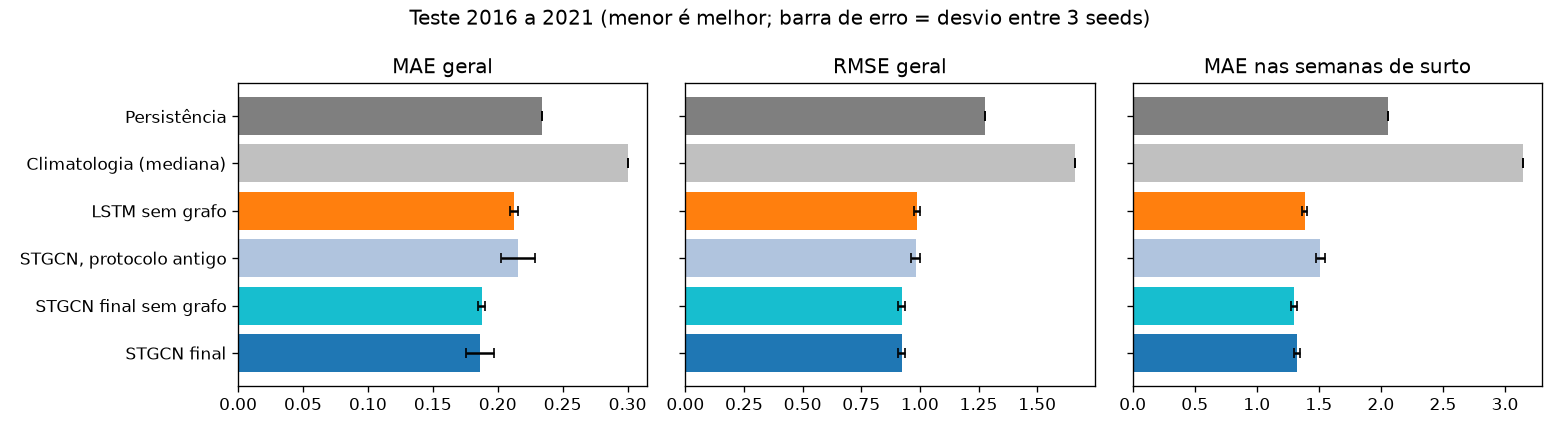
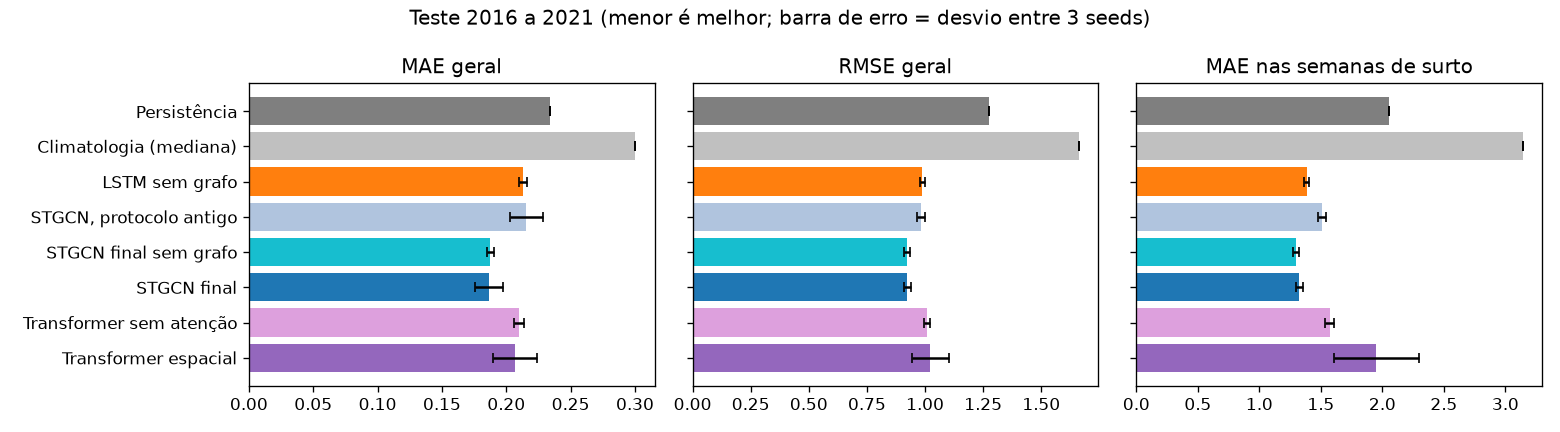
README e figuras: Transformer espacial na tabela final, no método e na reprodução

diff --git a/README.md b/README.md
@@ -1,12 +1,12 @@
 # STGNN-Dengue
 
-Previsão semanal da taxa de internações por dengue nos 79 municípios do estado do Rio de Janeiro (1999 a 2021) com uma rede neural espaço-temporal em grafo (STGCN). O STGCN é comparado a baselines honestos, e o projeto inclui um estudo de otimizadores, agendas de taxa de aprendizado e funções de perda.
+Previsão semanal da taxa de internações por dengue nos 79 municípios do estado do Rio de Janeiro (1999 a 2021) com uma rede neural espaço-temporal em grafo (STGCN) e um Transformer espacial, com atenção entre os municípios. Os dois são comparados a baselines honestos, e o projeto inclui um estudo de otimizadores, agendas de taxa de aprendizado e funções de perda.
 
 Projeto final da disciplina GBC073 (UFU).
 
 ## Resultado em uma frase
 
-No teste (2016 a 2021, usado **uma única vez**), o STGCN final erra **20% menos que a persistência** e **12% menos que um LSTM sem grafo** (MAE). Quase todo o ganho vem da arquitetura convolucional no tempo e do protocolo de treino. **O grafo geográfico não fez diferença mensurável.**
+No teste (2016 a 2021, com **cada modelo avaliado uma única vez**), o STGCN final erra **20% menos que a persistência**, **12% menos que um LSTM sem grafo** e **10% menos que um Transformer espacial** treinado com o mesmo protocolo (MAE). Quase todo o ganho vem da arquitetura convolucional no tempo e do protocolo de treino. **O grafo geográfico não fez diferença mensurável.** A atenção do Transformer mostra o porquê: o sinal útil entre municípios existe, mas é estadual, não de vizinhança.
 
 ![Resultado no teste](results/figuras/resultado_teste.png)
 
@@ -18,6 +18,8 @@ No teste (2016 a 2021, usado **uma única vez**), o STGCN final erra **20% menos
 | STGCN, protocolo antigo (Adam 1e-3, MSE) | 0,216 ± 0,013 | 0,982 ± 0,018 | 1,512 ± 0,033 | 0,165 ± 0,014 |
 | STGCN final sem grafo (A = I) | 0,188 ± 0,003 | 0,922 ± 0,013 | 1,300 ± 0,023 | 0,144 ± 0,004 |
 | **STGCN final** | **0,187 ± 0,011** | **0,923 ± 0,015** | **1,326 ± 0,025** | **0,142 ± 0,011** |
+| Transformer sem atenção | 0,210 ± 0,004 | 1,009 ± 0,013 | 1,571 ± 0,038 | 0,157 ± 0,005 |
+| Transformer espacial | 0,207 ± 0,017 | 1,022 ± 0,079 | 1,950 ± 0,344 | 0,139 ± 0,006 |
 
 A tabela está em `results/teste_final_tabela.csv`, e a análise completa está em `notebooks/05_resultado_final.ipynb`.
 
@@ -35,7 +37,7 @@ Usamos o dataset *Brazil-Dengue-Arboviral-Diseases* (Zenodo), recortado para o R
 | --- | --- | --- |
 | Treino | 1999 a 2012 | ajustar os pesos e a normalização |
 | Validação | 2013 a 2015 | **todas** as escolhas: modelo, η, agenda, perda e época |
-| Teste | 2016 a 2021 | aberto uma única vez, no fim (task 21) |
+| Teste | 2016 a 2021 | cada modelo é avaliado uma única vez, com a configuração congelada pela validação |
 
 A normalização é ajustada só no treino, e o alvo é treinado em `log1p`. Há testes automáticos contra vazamento: `tests/test_split.py`, `tests/test_normalizacao.py` e `tests/test_avaliacao_final.py`. No último, multiplicar a taxa do teste por 1000 não muda nenhuma métrica da validação.
 
@@ -46,9 +48,10 @@ A normalização é ajustada só no treino, e o alvo é treinado em `log1p`. Há
 3. **Grafo geográfico:** cada município se liga aos 5 vizinhos mais próximos (distância haversine), com peso gaussiano. Um teste de permutação confirma que municípios vizinhos são mais correlacionados que pares sorteados (0,327 contra 0,282, p < 0,001), mas a diferença é pequena.
 4. **STGCN:** um bloco formado por convolução temporal causal com GLU, convolução de Chebyshev no grafo (K = 3, 32 canais) e outra convolução temporal. O bloco tem conexão residual e LayerNorm.
 5. **Ablação:** o mesmo STGCN com a Laplaciana trocada pela identidade, ou seja, sem nenhuma troca de informação entre municípios.
-6. **Protocolo de treino:** orçamento fixo de 920 passos com lote 32 e clip 5. Valem os pesos da melhor época na validação. Com o orçamento igual para todos, a comparação entre otimizadores é justa.
-7. **Otimizadores e agendas** (task 19): SGD, SGD Nesterov, Adam, AdamW e Muon, cada um numa grade de η. Depois, as agendas constante, cosseno, warmup + cosseno e multistep. Os finalistas foram confirmados com 3 seeds.
-8. **Perdas** (task 20): MSE em `log1p`, Huber em `log1p` e Tweedie.
+6. **Transformer espacial** (task 23): no lugar de um grafo fixo, **atenção**. Cada município vira um token (as 4 semanas × 4 variáveis por uma camada linear, mais um embedding aprendido do município), e 2 camadas de atenção com 4 cabeças deixam cada município decidir, a cada janela, quanto olhar para cada um dos outros 78. É a ideia de modelos recentes como o iTransformer e o STAEformer, numa versão pequena. Ele usa o mesmo protocolo de treino do STGCN final, então a comparação é só de arquitetura. A ablação é a mesma rede com uma máscara que deixa cada município olhar só para si.
+7. **Protocolo de treino:** orçamento fixo de 920 passos com lote 32 e clip 5. Valem os pesos da melhor época na validação. Com o orçamento igual para todos, a comparação entre otimizadores é justa.
+8. **Otimizadores e agendas** (task 19): SGD, SGD Nesterov, Adam, AdamW e Muon, cada um numa grade de η. Depois, as agendas constante, cosseno, warmup + cosseno e multistep. Os finalistas foram confirmados com 3 seeds.
+9. **Perdas** (task 20): MSE em `log1p`, Huber em `log1p` e Tweedie.
 
 ![Perda na validação por η](results/figuras/otimizadores_eta.png)
 
@@ -58,12 +61,23 @@ O **η importa mais que o otimizador**. Adam e AdamW têm um vale largo e plano 
 
 ![Série estadual no teste, h = 4](results/figuras/serie_estadual.png)
 
-- **Calmaria** (96% das semanas do teste): o STGCN final tem o menor erro, com viés praticamente zero.
-- **Surto:** o MAE do STGCN é o menor dos modelos, mas ele **subestima os picos** (viés de −0,45). Isso é efeito de treinar em `log1p`. Em h = 4, a persistência fica atrasada: o pico dela aparece semanas depois do real.
+- **Calmaria** (96% das semanas do teste): o STGCN final e o Transformer têm os menores erros (0,142 e 0,139), com viés praticamente zero.
+- **Surto:** o MAE do STGCN é o menor dos modelos, mas ele **subestima os picos** (viés de −0,45). Isso é efeito de treinar em `log1p`. O Transformer faz o contrário: **superestima** o surto de 2016 (viés de +0,81) e varia muito entre as seeds. Em h = 4, a persistência fica atrasada: o pico dela aparece semanas depois do real.
+
+## O que o Transformer mostrou
+
+Na validação, o Transformer espacial empatou com o STGCN final (MAE 0,441 contra 0,442), e a atenção ajudou: sem ela, o MAE sobe para 0,464. Ou seja, **existe sinal útil nos outros municípios**, o que a ablação do grafo não tinha conseguido mostrar. O mapa de atenção (`notebooks/03b_transformer.ipynb`) diz que sinal é esse:
+
+- a atenção **ignora a geografia**: só 8,5% dela cai nos 5 vizinhos mais próximos (o acaso daria 7,9%), e a correlação com a distância é −0,04;
+- ela é larga, quase um resumo do estado inteiro, e alguns municípios recebem mais atenção de todos, estejam perto ou longe;
+- ela fica **mais seletiva nos surtos** (a correlação entre a entropia da atenção e a taxa estadual é −0,83).
+
+Isso explica por que o grafo k-NN não ajudou o STGCN: o grafo só deixa a informação andar até dois vizinhos, e o sinal que importa é estadual. No teste, porém, esse mesmo sinal estadual fez o Transformer superestimar o surto de 2016 em muitos municípios ao mesmo tempo. Ele foi o modelo que mais perdeu vantagem da validação para o teste.
 
 ## Limitações
 
-- **O grafo não ajudou.** O STGCN sem grafo empata no teste e foi um pouco melhor na validação. Mantivemos o grafo geo porque essa decisão foi tomada antes do teste, e trocar depois de ver o teste seria escolher pelo teste. A dependência espacial no RJ, medida na semana, é fraca.
+- **O grafo não ajudou.** O STGCN sem grafo empata no teste e foi um pouco melhor na validação. Mantivemos o grafo geo porque essa decisão foi tomada antes do teste, e trocar depois de ver o teste seria escolher pelo teste. A dependência espacial de vizinhança no RJ, medida na semana, é fraca. O Transformer indica que a dependência que existe é estadual.
+- **O Transformer foi testado numa versão pequena** e com a janela de 4 semanas do projeto. Uma janela maior daria espaço para atenção também no tempo, mas mudaria o problema e a comparação com os outros modelos.
 - **Poucos surtos no teste:** só 13 semanas passam do limiar, todas no início de 2016. A análise de surto deve ser lida como indicativa.
 - **O erro se concentra** nos municípios com taxa alta (correlação de 0,96 entre o MAE e a taxa média). Nos municípios com taxa quase sempre zero, a persistência é praticamente imbatível.
 
@@ -111,13 +125,26 @@ python -m dengue.experimento configs/perdas/huber.yaml --resultados novo/perdas
 python -m dengue.experimento configs/perdas/tweedie.yaml --resultados novo/perdas
 ```
 
+O Transformer espacial (task 23) tem a mesma estrutura: η com uma seed, os três finalistas com 3 seeds, a ablação sem atenção e o mapa de atenção na validação.
+
+```bash
+python -m dengue.varredura configs/transformer/etapa1.yaml --resultados novo/transformer
+python -m dengue.varredura configs/transformer/etapa2.yaml --resultados novo/transformer
+python -m dengue.experimento configs/transformer/sem_atencao.yaml --resultados novo/transformer
+python -m dengue.atencao     # mapa de atenção -> results/transformer/atencao_*.csv
+```
+
 ### 5. Avaliação final no teste
 
 ```bash
-python -m dengue.avaliacao_final --resultados novo/   # cerca de 15 min
+python -m dengue.avaliacao_final --resultados novo/   # cerca de 20 min, todos os modelos
 ```
 
-O script se recusa a rodar se já houver `teste_final*.csv` na pasta de saída. No projeto, ele rodou uma única vez.
+O script se recusa a avaliar um modelo que já está em `teste_final.csv`. Com `--modelos`, ele avalia só os modelos pedidos e acrescenta as linhas deles aos arquivos que já existem, sem mexer nos outros. Foi assim que o Transformer e a ablação entraram, depois de a configuração deles ser congelada em `configs/transformer.yaml`:
+
+```bash
+python -m dengue.avaliacao_final --modelos transformer transformer_sem_atencao
+```
 
 ### 6. Figuras e notebooks
 
@@ -132,6 +159,7 @@ Os notebooks só leem os CSV de `results/` (o `02_grafo` também lê os dados) e
 | `01_dados.ipynb` | Como são os dados? Há sazonalidade, defasagem com o clima, dependência entre municípios? |
 | `02_grafo.ipynb` | Vizinhos geográficos são mais parecidos que pares sorteados? |
 | `03_modelos.ipynb` | O STGCN supera os baselines e o LSTM? O grafo ajuda? |
+| `03b_transformer.ipynb` | Um Transformer com atenção entre municípios supera o STGCN? Para quem ele olha? |
 | `04_otimizacao.ipynb` | Qual otimizador, η e agenda treinam melhor o STGCN, e por quê? |
 | `04b_perdas.ipynb` | MSE, Huber ou Tweedie? |
 | `05_resultado_final.ipynb` | Como fica tudo no teste, em surto e em calmaria? |
@@ -143,15 +171,16 @@ src/dengue/
   dados.py            carga, limpeza, split temporal, janelas e normalização
   metricas.py         MAE, RMSE por horizonte, limiar e MAE de surto
   grafo.py            k-NN geográfico, Laplacianas e teste vizinhos × aleatórios
-  modelos.py          LSTM e STGCN
+  modelos.py          LSTM, STGCN e Transformer espacial
+  atencao.py          mapa de atenção do Transformer e comparação com o grafo geo
   treino.py           treino com early stopping (validações das tasks 14 a 17)
   perdas.py           MSE, Huber e Tweedie
   experimento.py      executor por YAML com orçamento fixo e logs por camada
   varredura.py        grade de experimentos a partir de um YAML
   baselines.py, lstm_validacao.py, stgcn_validacao.py   resultados na validação
-  avaliacao_final.py  avaliação única no teste
+  avaliacao_final.py  avaliação no teste, uma vez por modelo
   figuras.py          figuras do README
-configs/              YAML dos experimentos (base, otimizacao/, perdas/, final.yaml)
+configs/              YAML dos experimentos (base, otimizacao/, perdas/, transformer/, final.yaml, transformer.yaml)
 notebooks/            a narrativa do estudo; só importam de src/
 results/              tabelas, logs e figuras
 tests/                testes automáticos, principalmente contra vazamento
@@ -164,5 +193,5 @@ O trabalho foi dividido em tasks. Cada task tinha um dono, era feita numa branch
 
 | Quem | O que fez |
 | --- | --- |
-| **Gabriel Amorim** ([gabrielhca](https://github.com/gabrielhca)) | Infraestrutura: estrutura do pacote, CI com ruff e pytest, proteção do `main`, templates e board. Métricas comuns e definição de surto. Grafo k-NN geográfico e o notebook `02_grafo`. STGCN e ablação do grafo (`03_modelos`). Executor de experimentos com orçamento fixo, logs por camada e Muon. README e figuras finais. |
+| **Gabriel Amorim** ([gabrielhca](https://github.com/gabrielhca)) | Infraestrutura: estrutura do pacote, CI com ruff e pytest, proteção do `main`, templates e board. Métricas comuns e definição de surto. Grafo k-NN geográfico e o notebook `02_grafo`. STGCN e ablação do grafo (`03_modelos`). Executor de experimentos com orçamento fixo, logs por camada e Muon. Transformer espacial, ablação sem atenção e mapa de atenção (`03b_transformer`). README e figuras finais. |
 | **Gabriel Moutinho** ([IMoutinho](https://github.com/IMoutinho)) | Carga e limpeza dos dados e a EDA (`01_dados`). Split temporal, janelas e normalização, com os testes contra vazamento. Baselines de persistência e climatologia. LSTM sem grafo. Varredura de otimizadores e agendas (`04_otimizacao`). Comparação de perdas (`04b_perdas`). Avaliação final no teste (`05_resultado_final`). |
